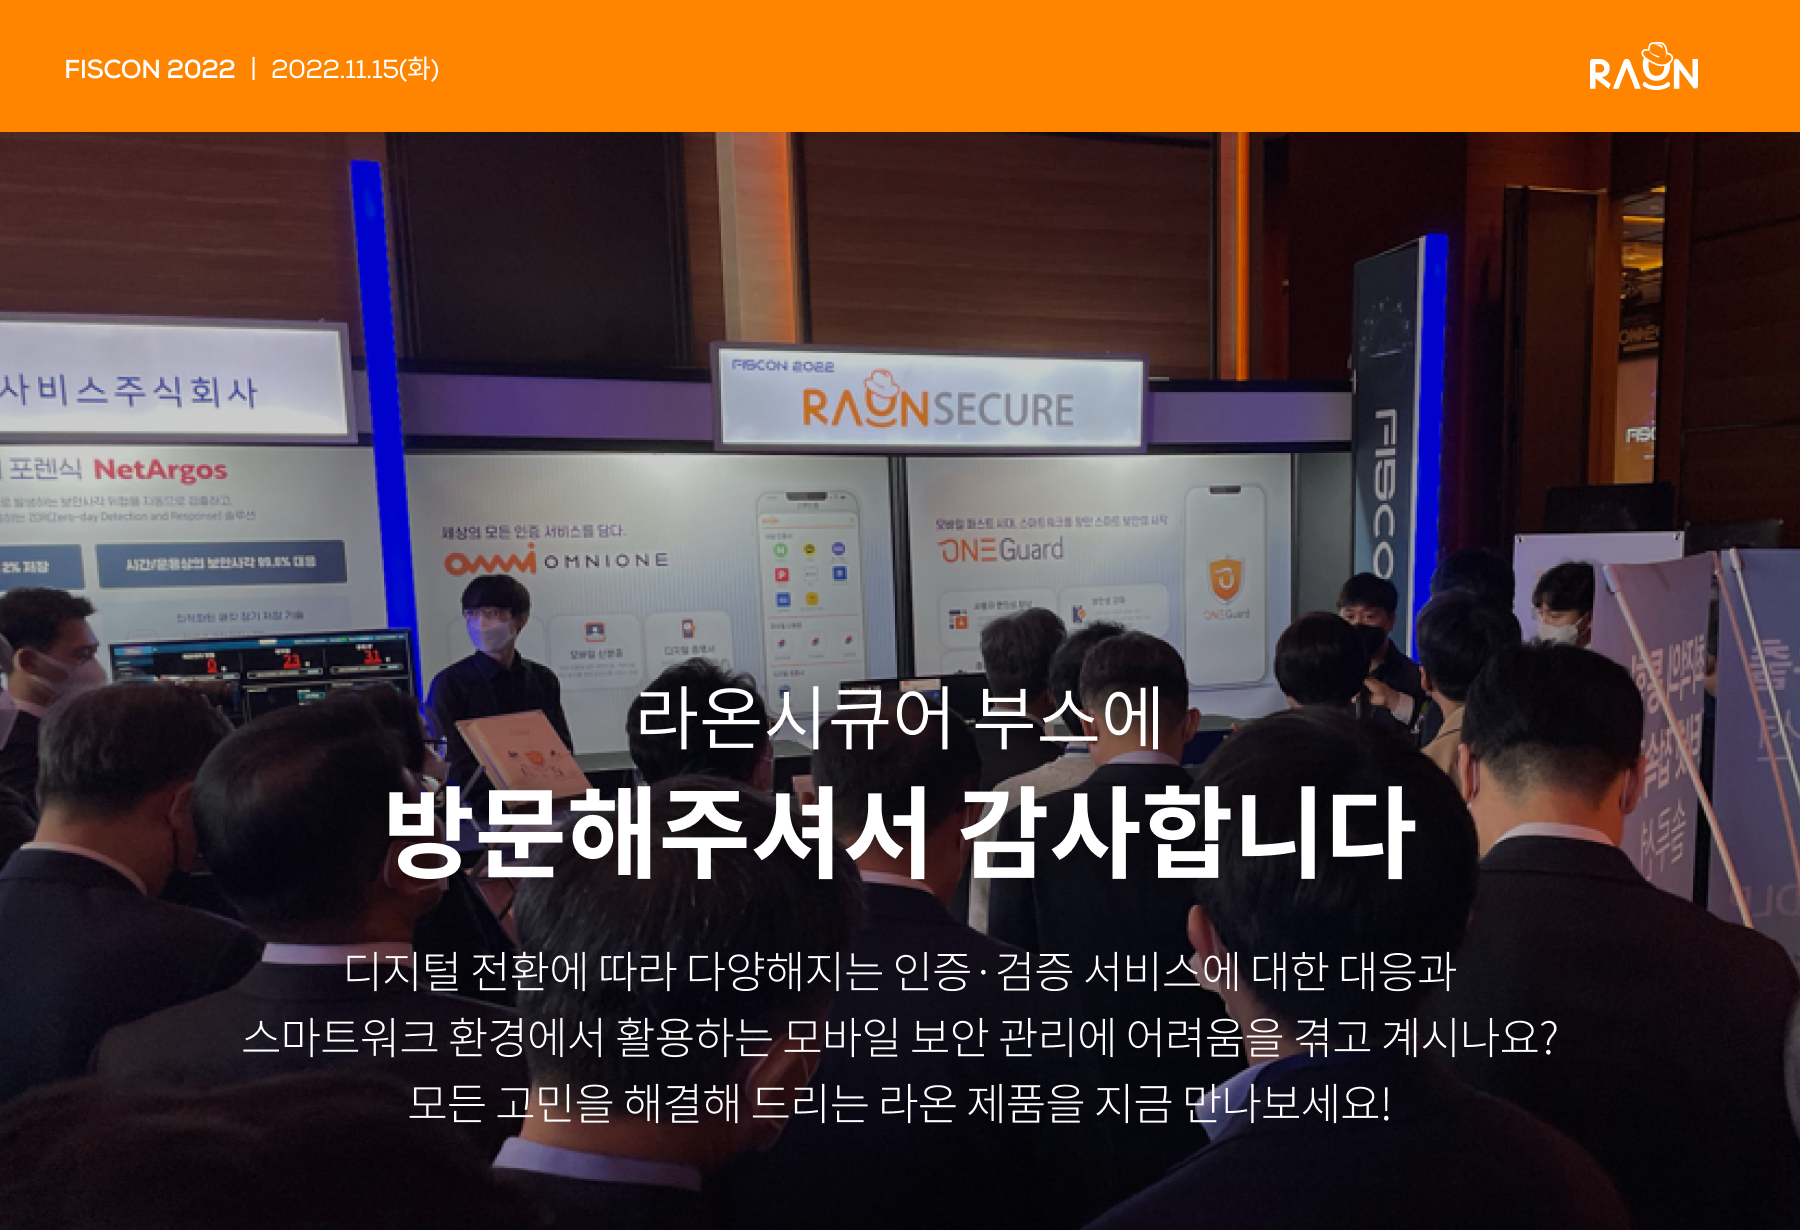
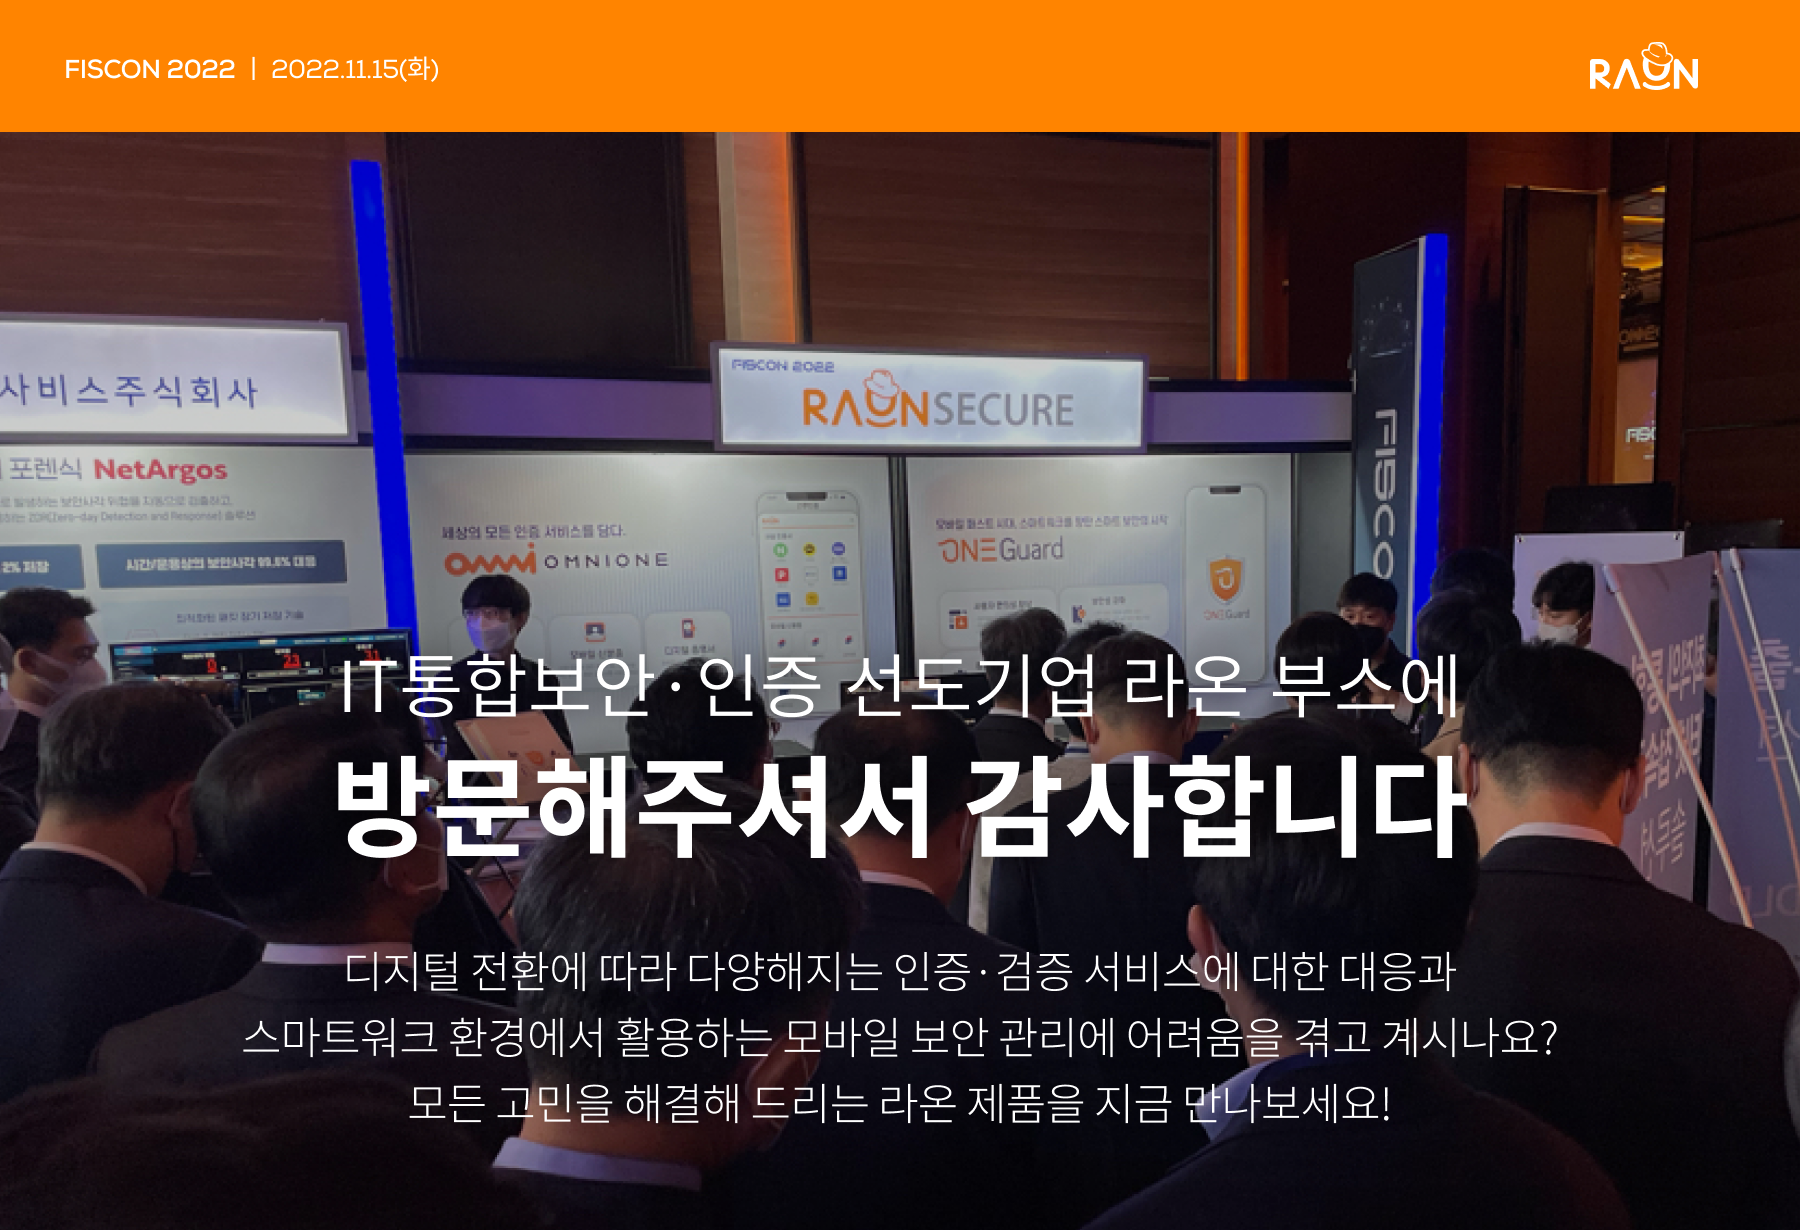
221123

Changed region(s): [[0.1867, 0.5252, 0.8089, 0.7106]]

diff --git a/221116/index.html b/221116/index.html
@@ -5,7 +5,7 @@
   <meta charset="UTF-8">
   <meta http-equiv="X-UA-Compatible" content="IE=edge">
   <meta name="viewport" content="width=device-width, initial-scale=1.0">
-  <link rel="stylesheet" href="https://sh0402.github.io/eDM/221116/style.css">
+  <link rel="stylesheet" href="https://www.raoncorp.com/data/eDM/221116/style.css">
   <title>FISCON 감사 eDM</title>
 
   <!-- <script defer src="http://mattstow.com/js/ios-orientationchange-fix.min.js"></script>
@@ -15,46 +15,46 @@
 
 <body>
 
-  <div class="wrap">
+  <div class="wrap" style="margin: 0">
 
     <p style="padding: 16px 0; font-size: 16px;">
-      아웃룩 등으로 인해 이미지가 보이지 않을 경우, <a href="https://sh0402.github.io/eDM/221116/index.html"
+      아웃룩 등으로 인해 이미지가 보이지 않을 경우, <a href="https://www.raoncorp.com/data/eDM/221116/index.html"
         style="color: #ff8700; font-weight: 600;" target="_blank">링크</a>
       를 통해 확인 부탁드립니다.
     </p>
 
     <div class="top">
-      <img src="https://sh0402.github.io/eDM/221116/img/top.png" alt="">
+      <img src="https://www.raoncorp.com/data/eDM/221116/img/top.png" alt="">
     </div>
 
     <div class="contents">
       <!-- <a href="javascript:;"> -->
-      <a href="https://sh0402.github.io/eDM/221116/data/OmniOne_Brochure.pdf" target="_blank">
-        <img src="https://sh0402.github.io/eDM/221116/img/contents-01.png" alt="">
+      <a href="https://www.raoncorp.com/data/eDM/221116/data/OmniOne_Brochure.pdf" target="_blank">
+        <img src="https://www.raoncorp.com/data/eDM/221116/img/contents-01.png" alt="">
       </a>
 
       <!-- <a href="javascript:;"> -->
-      <a href="https://sh0402.github.io/eDM/221116/data/OmniOne_Brochure.pdf" target="_blank">
-        <img src="https://sh0402.github.io/eDM/221116/img/contents-02.png" alt="">
+      <a href="https://www.raoncorp.com/data/eDM/221116/data/OneGuard_Brochure.pdf" target="_blank">
+        <img src="https://www.raoncorp.com/data/eDM/221116/img/contents-02.png" alt="">
       </a>
 
       <a href="mailto:mkt@raoncorp.com">
-        <img src="https://sh0402.github.io/eDM/221116/img/contents-03.png" alt="">
+        <img src="https://www.raoncorp.com/data/eDM/221116/img/contents-03.png" alt="">
       </a>
     </div>
 
     <div class="bottom">
-      <img src="https://sh0402.github.io/eDM/221116/img/footer.png" alt="">
+      <img src="https://www.raoncorp.com/data/eDM/221116/img/footer.png" alt="">
 
       <div class="sns-group">
         <a href="https://www.facebook.com/raonsecure" target="_blank">
-          <img src="https://sh0402.github.io/eDM/221116/img/sns-fb.png" alt="">
+          <img src="https://www.raoncorp.com/data/eDM/221116/img/sns-fb.png" alt="">
         </a>
         <a href="https://www.youtube.com/channel/UCKolDleelO3jVKNDO35nDOg" target="_blank">
-          <img src="https://sh0402.github.io/eDM/221116/img/sns-yt.png" alt="">
+          <img src="https://www.raoncorp.com/data/eDM/221116/img/sns-yt.png" alt="">
         </a>
         <a href="https://blog.naver.com/funraon" target="_blank">
-          <img src="https://sh0402.github.io/eDM/221116/img/sns-nv.png" alt="">
+          <img src="https://www.raoncorp.com/data/eDM/221116/img/sns-nv.png" alt="">
         </a>
       </div>
     </div>

diff --git a/221123/index.html b/221123/index.html
@@ -1,0 +1,60 @@
+<!DOCTYPE html>
+<html lang="ko">
+
+<head>
+  <meta charset="UTF-8">
+  <meta http-equiv="X-UA-Compatible" content="IE=edge">
+  <meta name="viewport" content="width=device-width, initial-scale=1.0">
+  <link rel="stylesheet" href="https://sh0402.github.io/eDM/221123/style.css">
+  <title>FISCON 감사 eDM</title>
+
+  <!-- <script defer src="http://mattstow.com/js/ios-orientationchange-fix.min.js"></script>
+  <script defer src="http://ajax.googleapis.com/ajax/libs/jquery/1.10.2/jquery.min.js"></script>
+  <script defer src="http://mattstow.com/experiment/responsive-image-maps/jquery.rwdImageMaps.min.js"></script> -->
+</head>
+
+<body>
+
+  <div class="wrap">
+
+    <p style="padding: 16px 0; font-size: 16px;">
+      아웃룩 등으로 인해 이미지가 보이지 않을 경우, <a href="https://sh0402.github.io/eDM/221123/index.html"
+        style="color: #ff8700; font-weight: 600;" target="_blank">링크</a>
+      를 통해 확인 부탁드립니다.
+    </p>
+
+    <div class="top">
+      <img src="https://sh0402.github.io/eDM/221123/img/main_img_01.png" alt="">
+    </div>
+
+    <div class="contents">
+      <a href="https://www.raonwhitehat.com/ko/service/omnione" target="_blank">
+        <img src="https://sh0402.github.io/eDM/221123/img/main_img_02.png" alt="">
+      </a>
+
+      <a href="javascript:;" target="_blank">
+        <img src="https://sh0402.github.io/eDM/221123/img/main_img_03.png" alt="">
+      </a>
+    </div>
+
+    <div class="bottom">
+      <img src="https://sh0402.github.io/eDM/221123/img/footer.png" alt="">
+
+      <div class="sns-group">
+        <a href="https://www.facebook.com/raonsecure" target="_blank">
+          <img src="https://sh0402.github.io/eDM/221123/img/sns-fb.png" alt="">
+        </a>
+        <a href="https://www.youtube.com/channel/UCKolDleelO3jVKNDO35nDOg" target="_blank">
+          <img src="https://sh0402.github.io/eDM/221123/img/sns-yt.png" alt="">
+        </a>
+        <a href="https://blog.naver.com/funraon" target="_blank">
+          <img src="https://sh0402.github.io/eDM/221123/img/sns-nv.png" alt="">
+        </a>
+      </div>
+    </div>
+
+  </div>
+
+</body>
+
+</html>

diff --git a/221123/style.css b/221123/style.css
@@ -1,0 +1,118 @@
+@charset "UTF-8";
+
+body {
+  width: 100%;
+  height: 100%;
+  padding: 0;
+  margin: 0;
+}
+
+div {
+  position: relative;
+  font-size: 0px;
+}
+
+.wrap {
+  width: 100%;
+  max-width: 900px;
+  height: 100%;
+  margin: 0 auto;
+}
+
+img {
+  width: 100%;
+  height: 100%;
+  display: block;
+}
+
+.contents {
+  display: flex;
+  
+}
+
+.bottom {
+  position: relative;
+} 
+
+.bottom .sns-group {
+  position: absolute;
+  top: 16px;
+  right: 75px;
+  height: 32px;
+
+  display: flex;
+  gap: 8px;
+}
+
+.sns-group img {
+  width: 100%;
+  height: 100%;
+}
+
+@media (max-width: 768px) {
+  .bottom .sns-group {
+    top: 22.08vw;
+    right: 9.76vw;
+    height: 4.16vw;
+  }
+
+  .sns-group img {
+    width: 4.16vw;
+    height: 4.16vw;
+  }
+}
+/* .footer {
+  position: relative; 
+  background-color: #7f7f7f;
+  height: 100%;
+  padding: 1.5vw 3.12vw;
+  display: block;
+}
+
+.txt {
+  color: #fff;
+}
+
+.txt h1 {
+  font-size: 1vw;
+  padding: 0;
+  margin: 0;
+  margin-bottom: 0.5vw;
+}
+
+.txt p {
+  color: #fff;
+  font-size: 0.6vw;
+  padding: 0;
+  margin: 0;
+}
+
+.txt a {
+  color: #fff;
+  font-size: 0.6vw;
+  text-decoration: none;
+  padding: 0;
+  margin: 0;
+}
+
+.sns {
+  position: absolute;
+  top: 50%;
+  right: 3vw;
+  transform: translateY(-50%);
+}
+
+.sns .sns_inner {
+  display: flex;
+}
+
+.sns .sns_inner a {
+  padding-left: 0.6vw;
+}
+
+.sns img {
+  background-color: #222;
+  width: 4vw;
+  height: 4vw;
+  display: block;
+} */

diff --git a/220530/01/간호실습.html b/220530/01/간호실습.html
@@ -27,7 +27,7 @@
     </p>
 
     <div class="container">
-      <img src="https://raoncorp.com/data/eDM/220530/01/img/main.png" usemap="#imageMap" alt="">
+      <img src="https://www.raoncorp.com/data/eDM/220530/01/img/main.png" usemap="#imageMap" alt="">
 
       <map name="imageMap">
         <area shape="rect" coords="314, 714, 574, 774" href="https://e-training.com" alt="" target="_blank">
